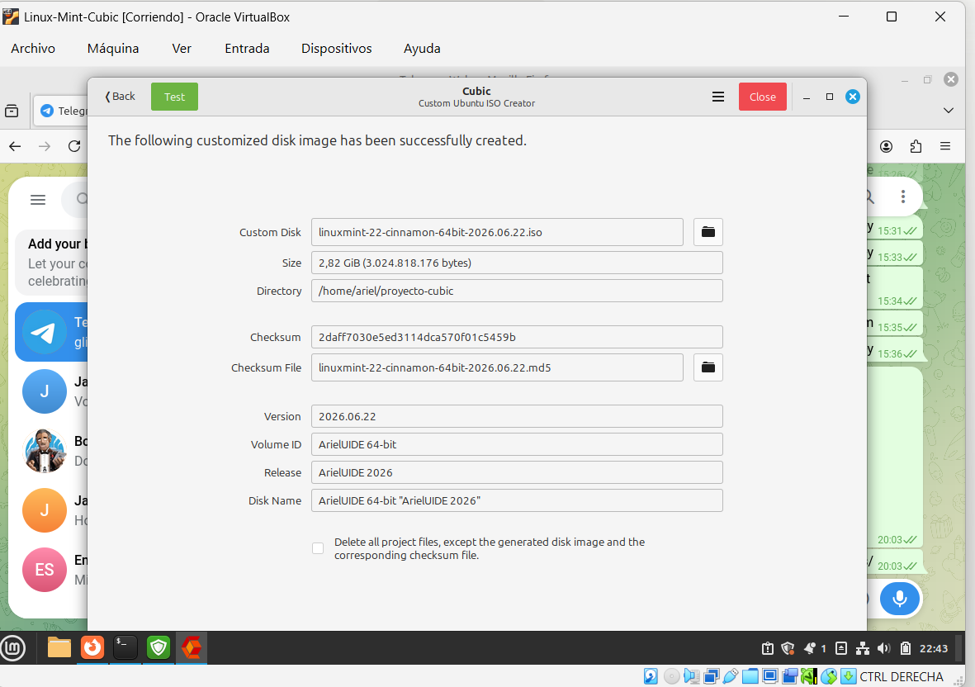
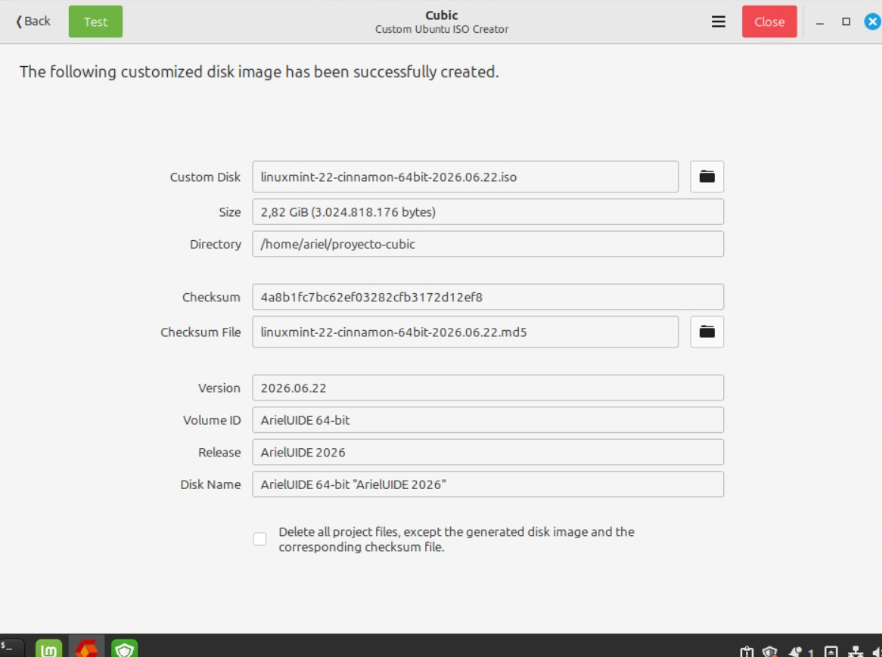
part1: README Modifications

diff --git a/part1/README.md b/part1/README.md
@@ -114,23 +114,25 @@ glib-compile-schemas /usr/share/glib-2.0/schemas/
 
 ![alt text](image-8.png)
 
+![alt text](image-9.png)
+
 ## Generated ISO
 
 | Field         | Value                                          |
 |---------------|------------------------------------------------|
 | Filename      | `linuxmint-22-cinnamon-64bit-2026.06.22.iso`   |
 | Size          | 2.82 GiB (3,024,818,176 bytes)                 |
-| MD5 Checksum  | `2daff7030e5ed3114dca570f01c5459b`             |
+| MD5 Checksum  | `4a8b1fc7bc62ef03282cfb3172d12ef8`             |
+`
+
+**ISO Download** 
+
+[Google Drive](https://drive.google.com/file/d/1Ou0_SY5yAcv-UOREgeMUCEcta51dPyL_/view?usp=sharing)       
 
 
- **Download link**: [Google Drive](https://drive.google.com/file/d/1l8P4SYXwacbAljxfZOTB5pnkXdmPwxB1/view?usp=drive_link)                  
+**MD5 Download**  
+[Google Drive](https://drive.google.com/file/d/1dqL2dcUovRh48fyGq7X8CL0V0BhFLYLt/view?usp=sharing)
 
-> To verify integrity after downloading:
-> ```bash
-> md5sum linuxmint-22-cinnamon-64bit-2026.06.22.iso
-> # Expected: 2daff7030e5ed3114dca570f01c5459b
-> ```
-
-![alt text](image-9.png)
+![alt text](image-10.png)
 
 ---